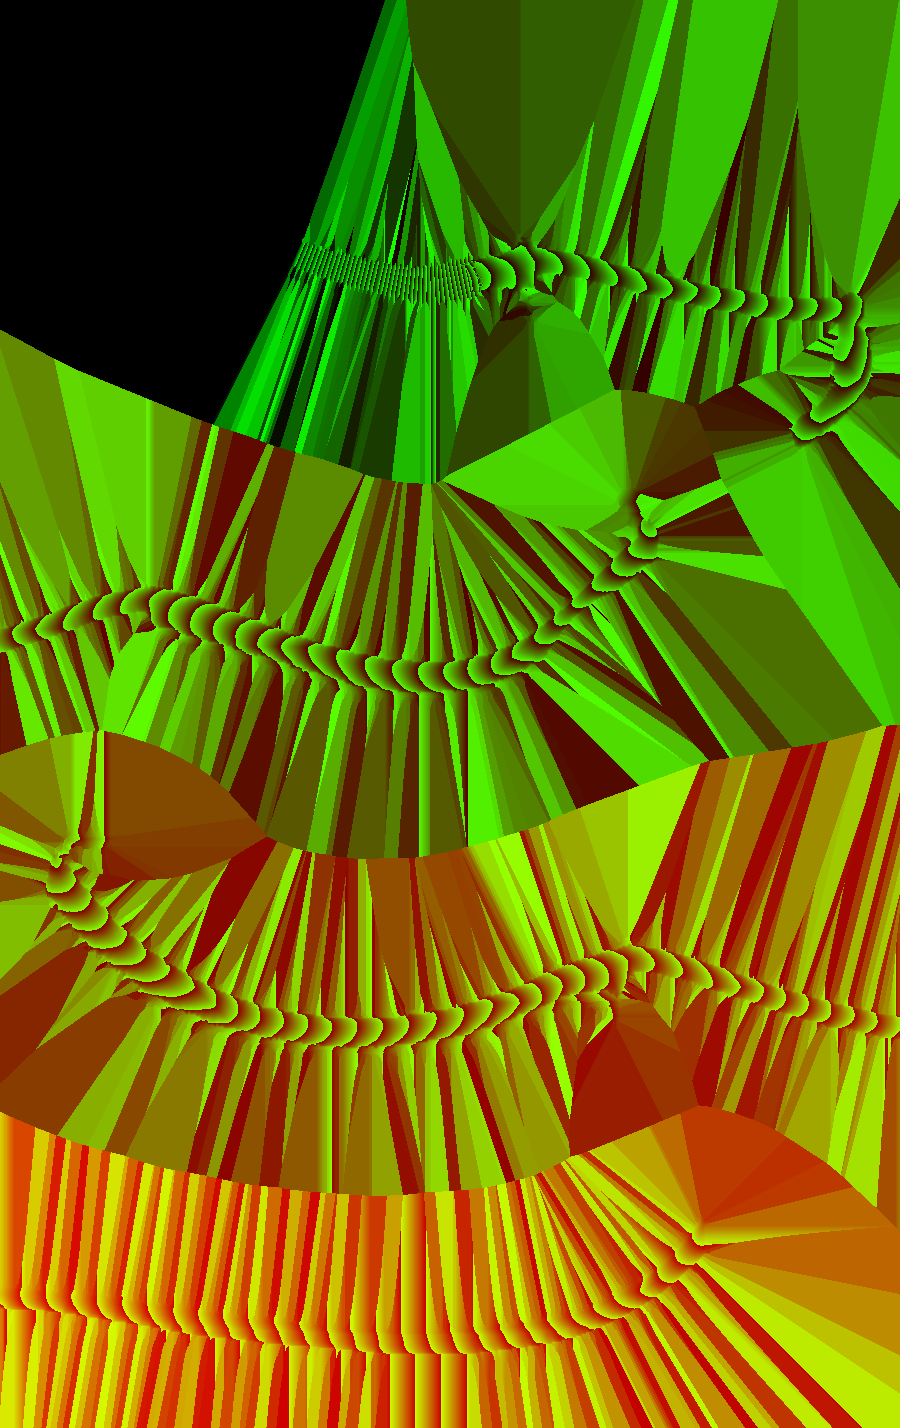
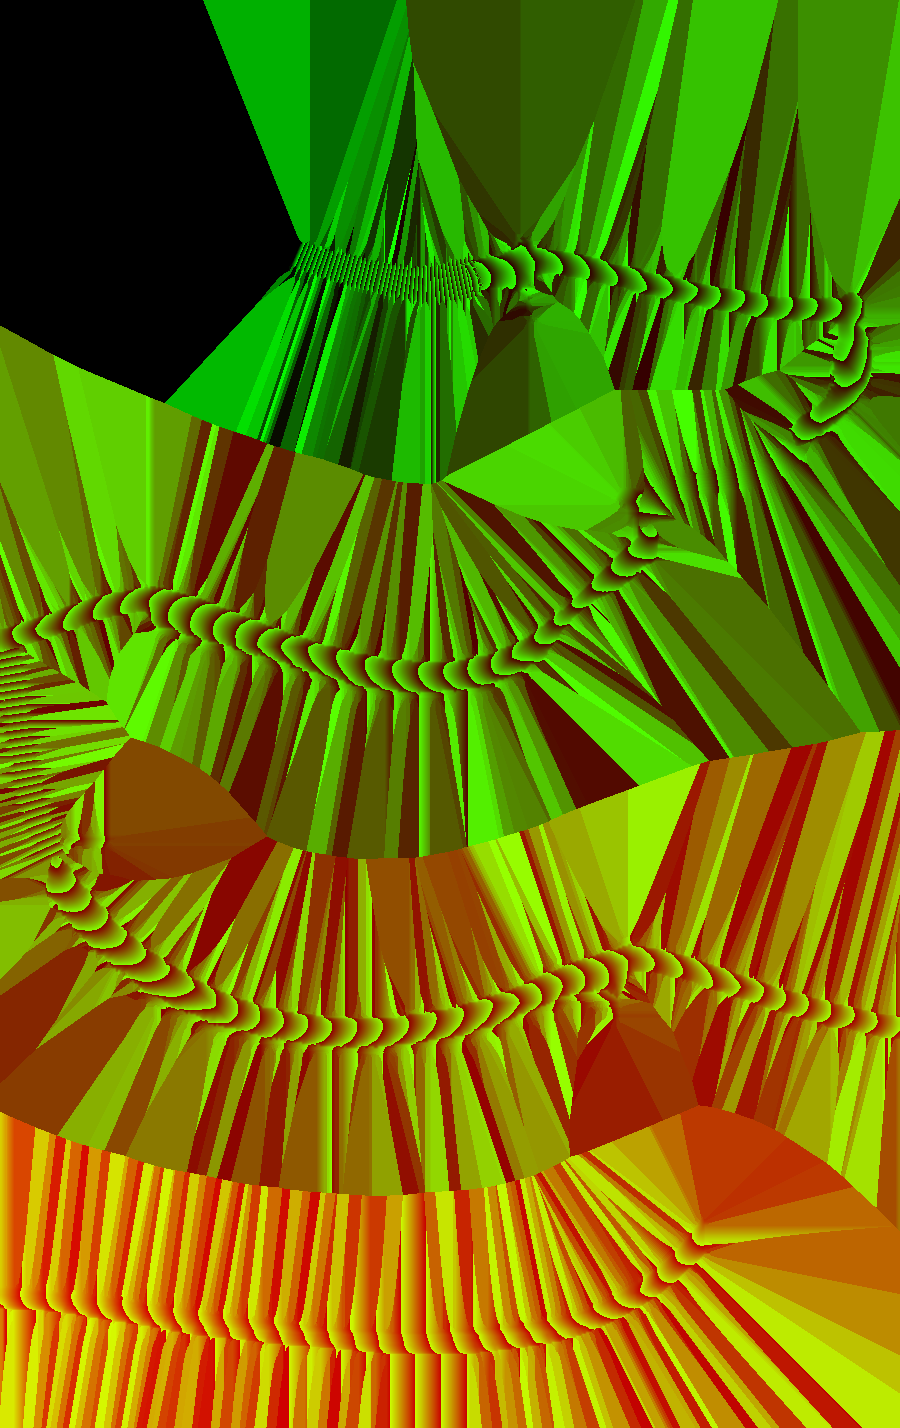
Matassa: il filo non esce piu' dalla gola dei primi due profili, scende dalla nuca e passa davanti al collo (#31)
Claude-Session: https://claude.ai/code/session_01K8S9kDcMmADtdHMs7poTsz

Changed region(s): [[0.6844, 0.2465, 1.0, 0.5238], [0.1867, 0.0, 0.4356, 0.3081], [0.0, 0.4314, 0.1556, 0.6162]]

diff --git a/assets/js/matassa.js b/assets/js/matassa.js
@@ -49,7 +49,7 @@
   function prepara() {
     var nome = verticale && verticale.matches ? 'stretto' : 'largo', T = TAGLI[nome];
     if (scena && scena.nome === nome) return;
-    Promise.all([carica(DIR + nome + '-base.webp?v=10'), carica(DIR + nome + '-filo.webp?v=10'), carica(DIR + nome + '-tempo.png?v=10'),
+    Promise.all([carica(DIR + nome + '-base.webp?v=11'), carica(DIR + nome + '-filo.webp?v=11'), carica(DIR + nome + '-tempo.png?v=11'),
                  carica(DIR + nome + '-palla.png?v=3')]).then(function (r) {
       var fp = pixel(r[1], T.W, T.H), tp = pixel(r[2], T.W, T.H);
       cBase.width = cFilo.width = T.W; cBase.height = cFilo.height = T.H;

diff --git a/index.html b/index.html
@@ -596,7 +596,7 @@
 </footer>
 
 <!-- prima la matassa: se c'e', site.js non disegna il filo colorato dell'apertura -->
-<script src="assets/js/matassa.js?v=20261004a" defer></script>
+<script src="assets/js/matassa.js?v=20261004b" defer></script>
 <script src="assets/js/site.js?v=20261003q" defer></script>
 <script src="assets/js/filo-laterale.js?v=4" defer></script>
 </body>
